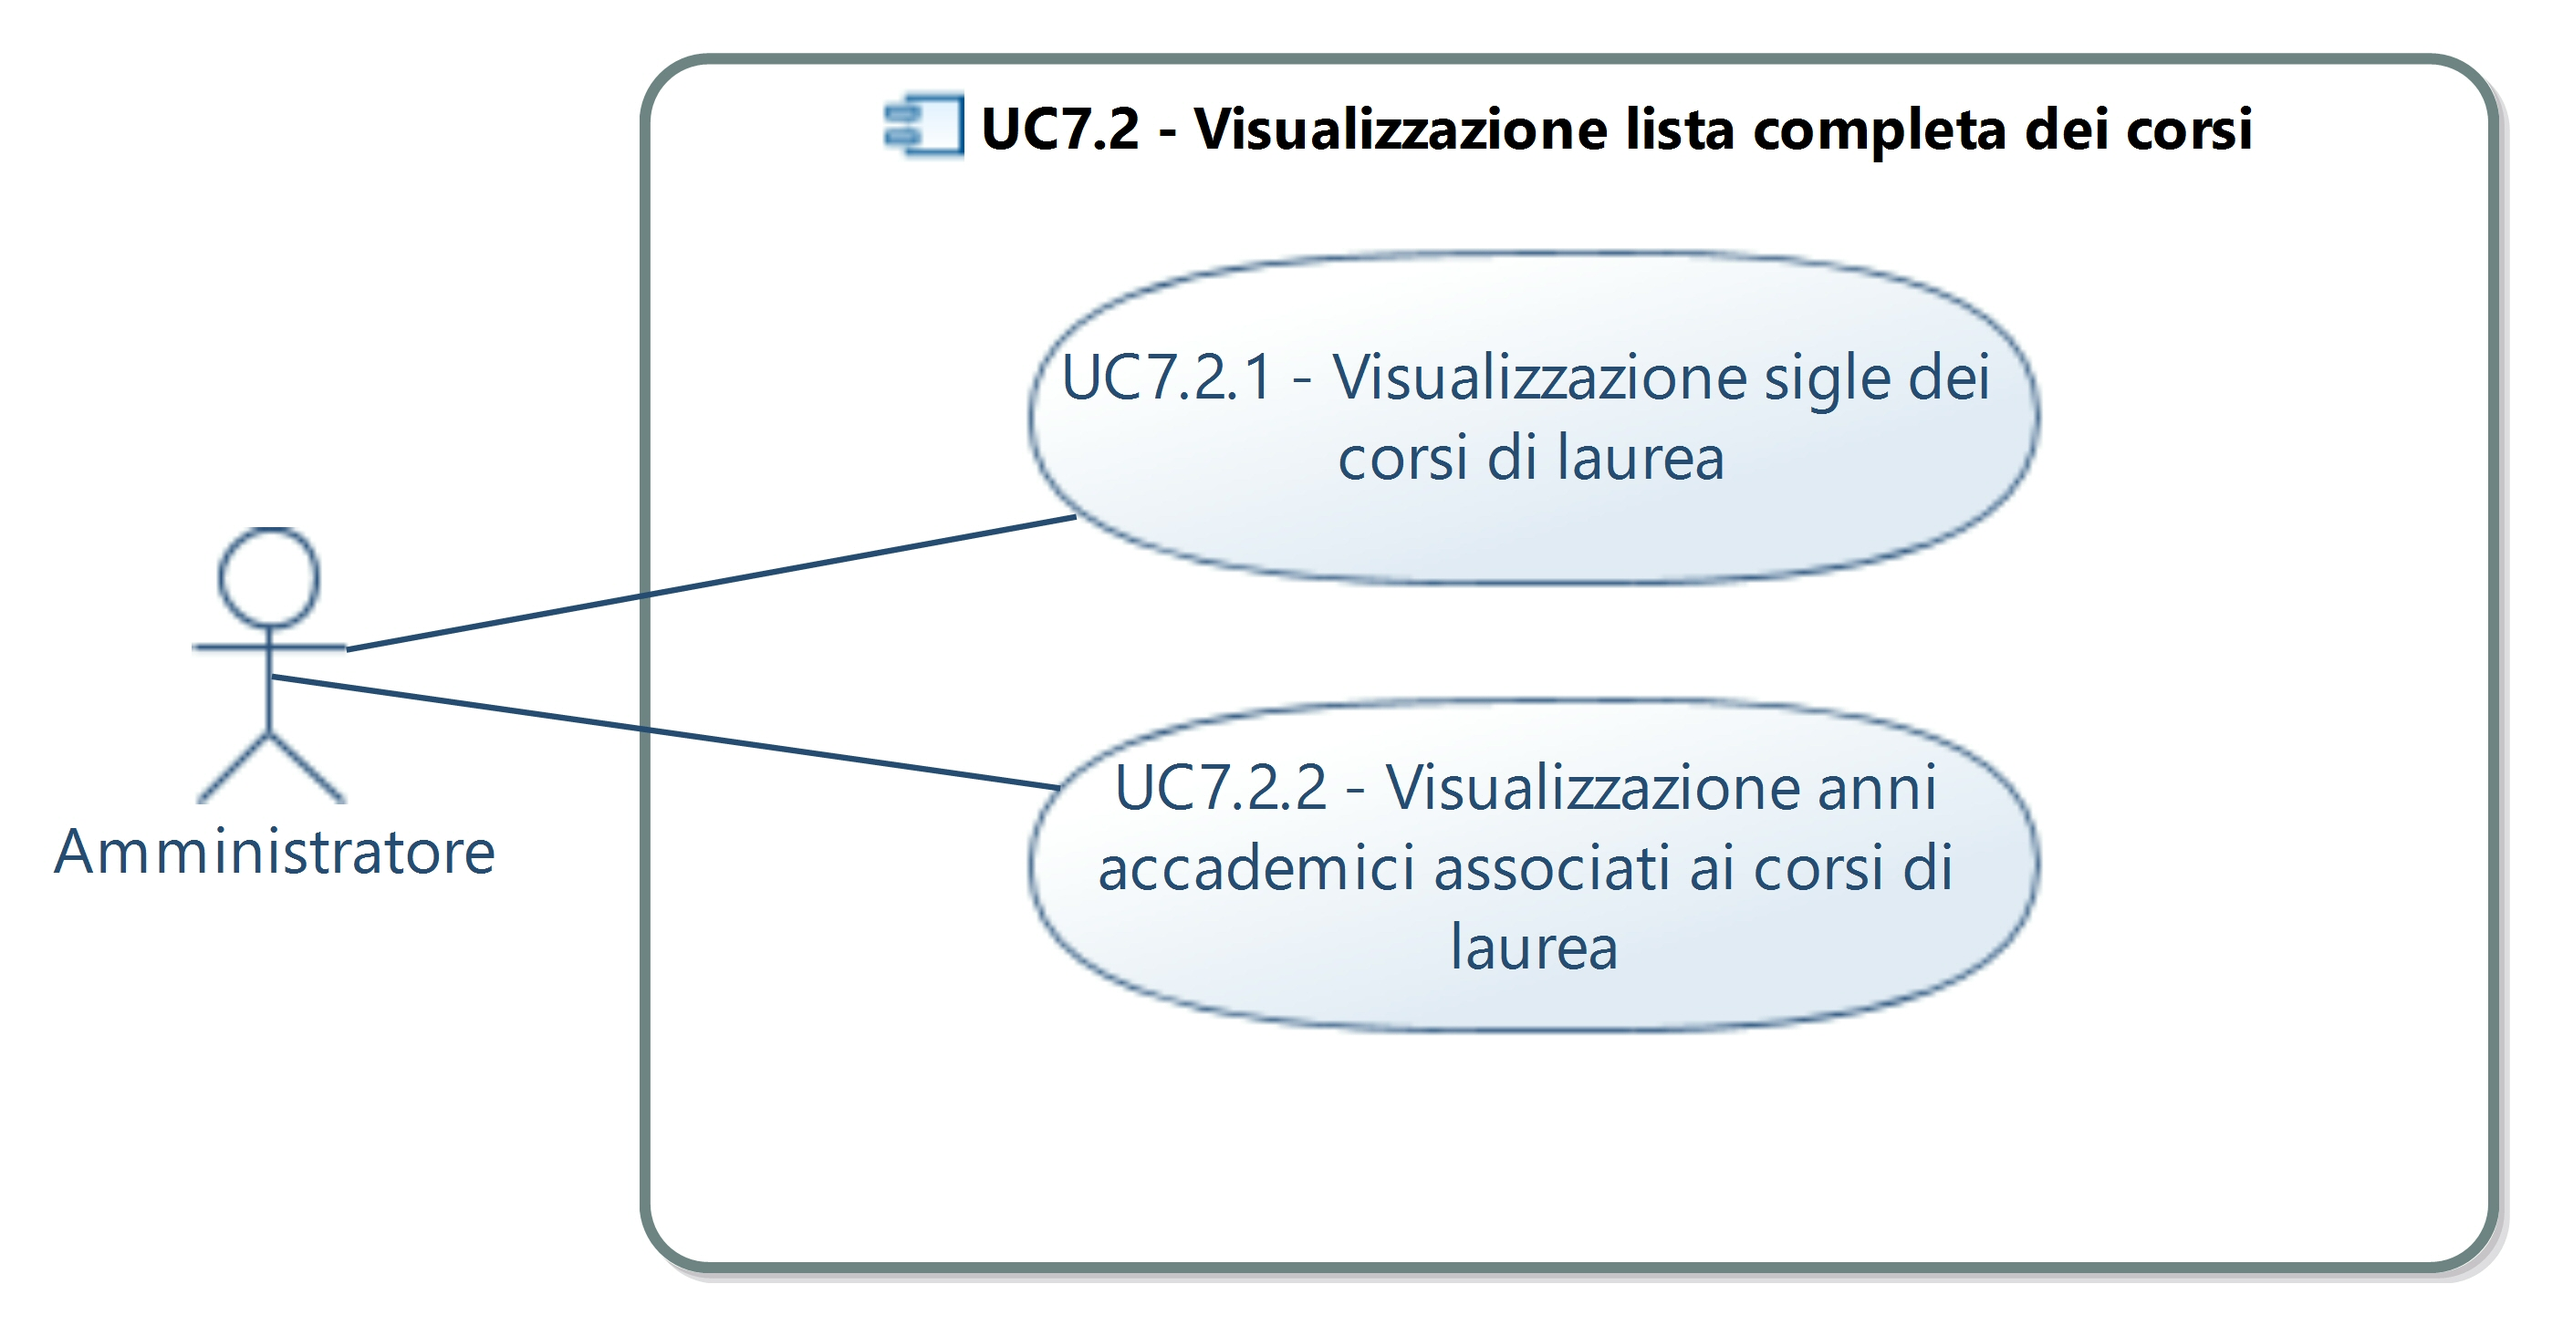
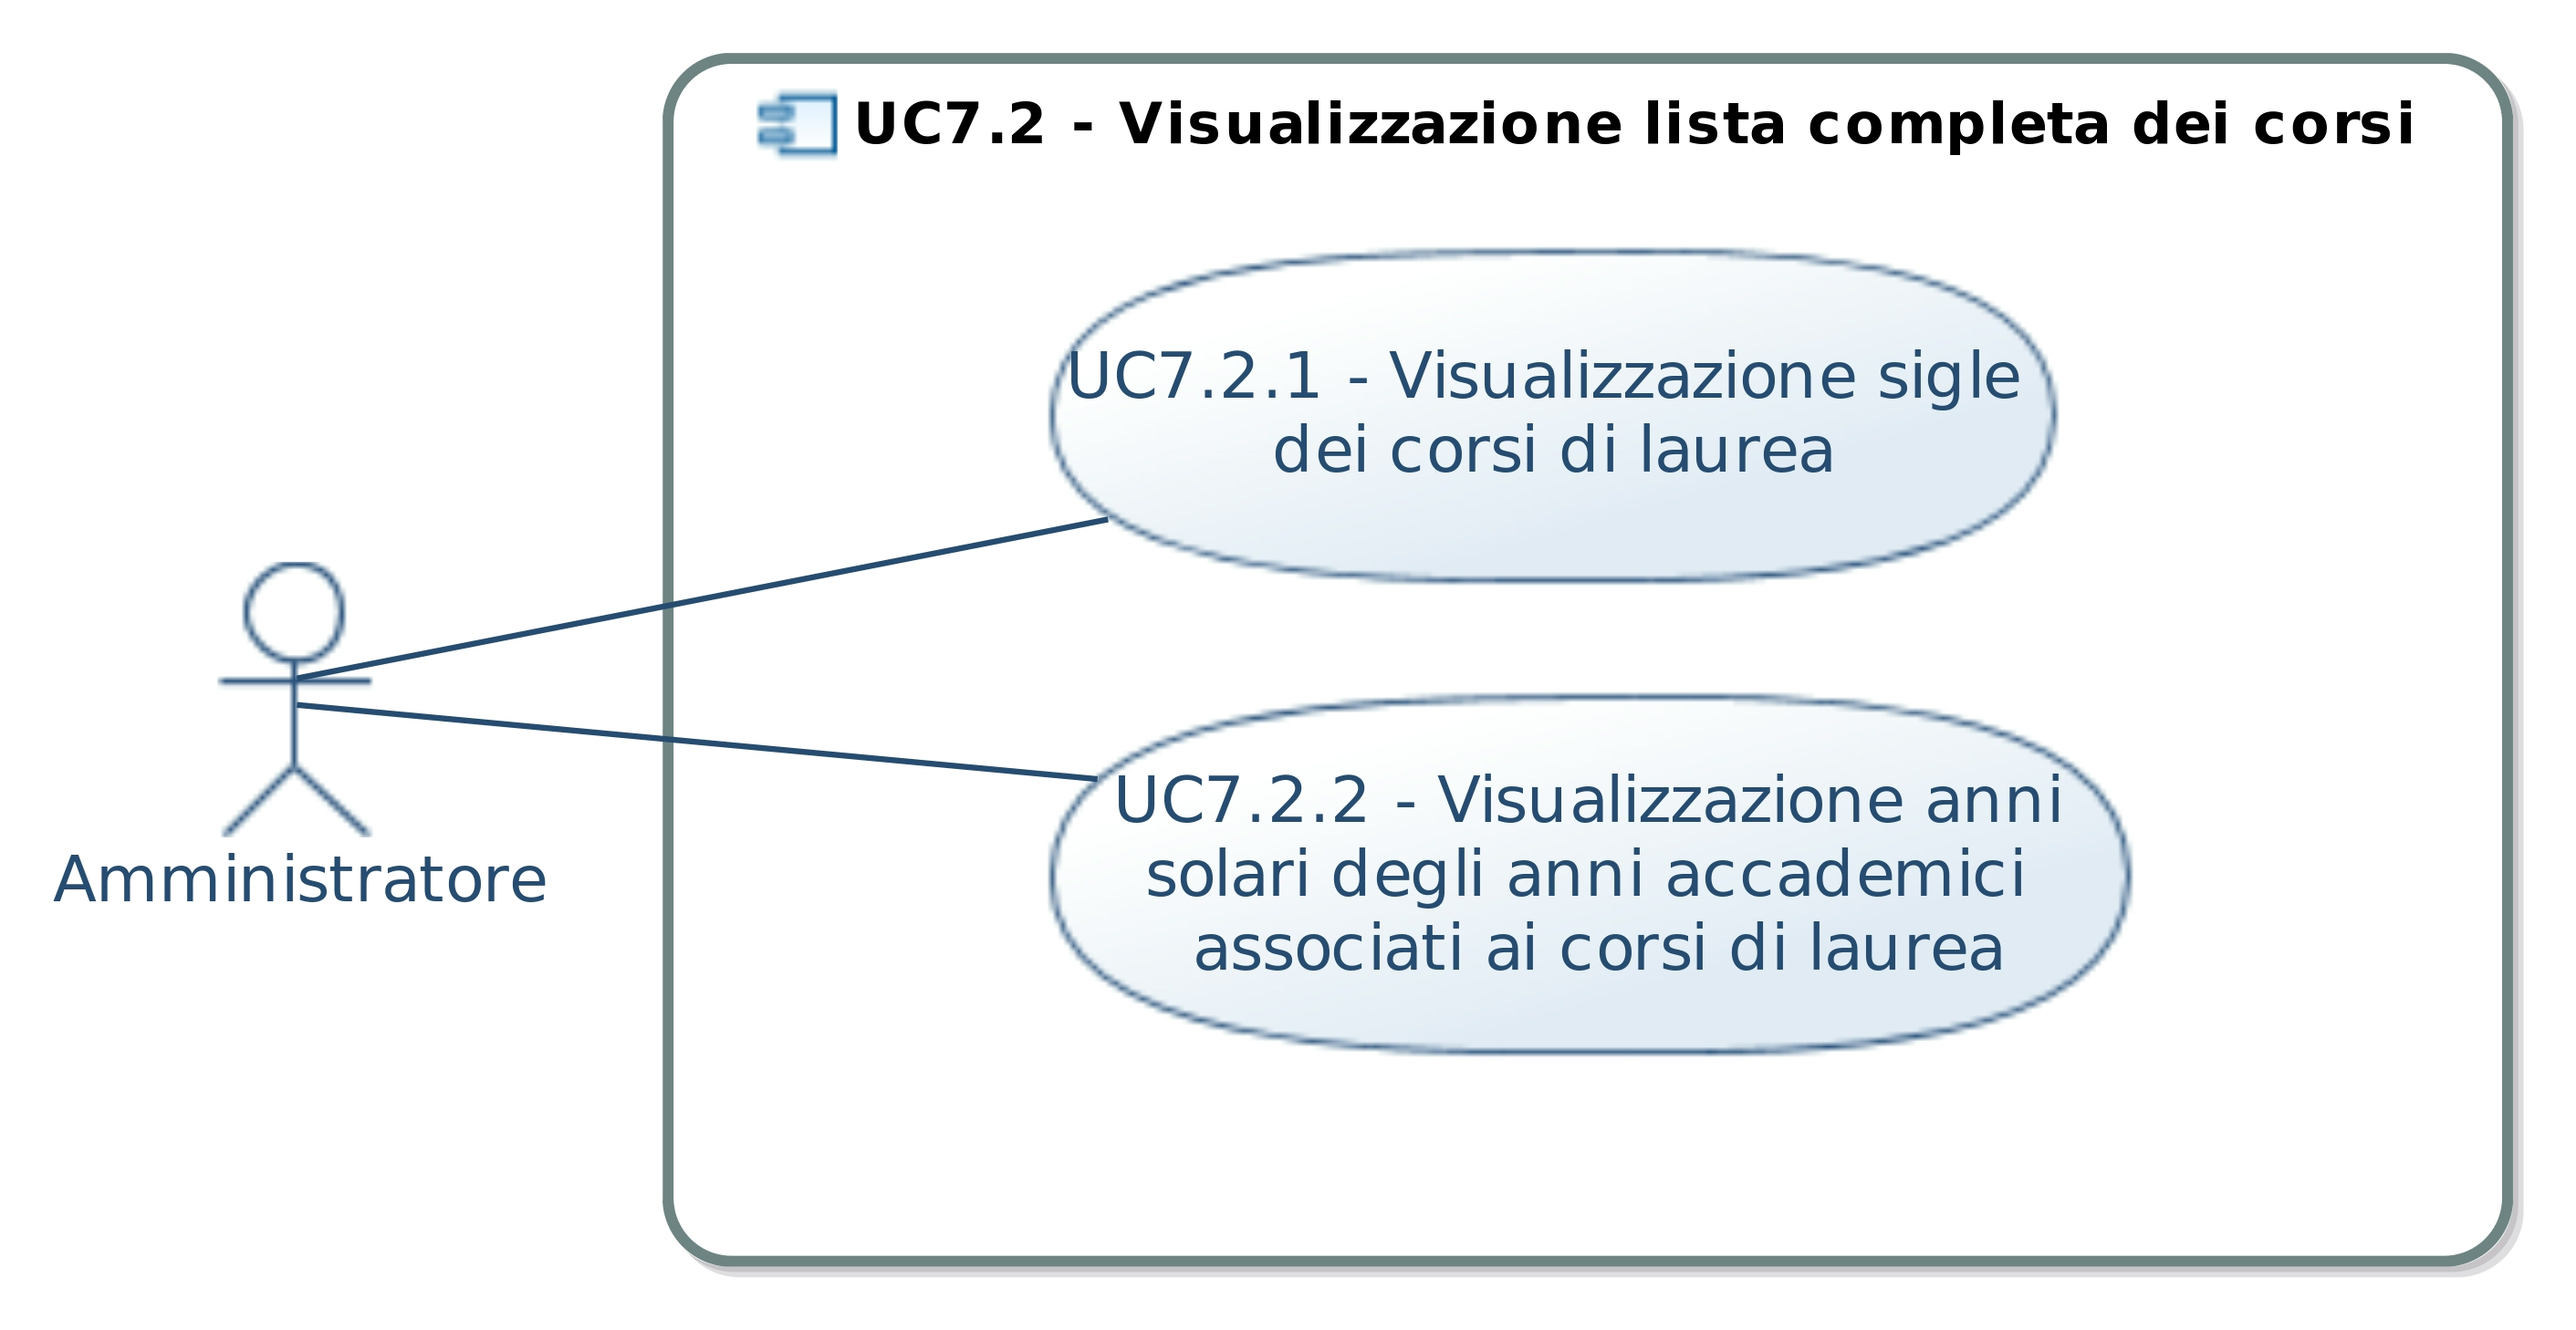
Fix UC7.2

Changed region(s): [[0.0, 0.0309, 0.9292, 0.9568], [0.7124, 0.1852, 0.7433, 0.216]]

diff --git a/Esterni/AnalisiDeiRequisiti/CasiDUso.tex b/Esterni/AnalisiDeiRequisiti/CasiDUso.tex
@@ -644,13 +644,13 @@ Ogni scenario possibile per un attore è disponibile anche ai suoi derivati.
 	\item \textbf{Precondizione:} il sistema riconosce l'utente come amministratore e riceve una richiesta di visualizzazione dei corsi di laurea; 
 	\item \textbf{Postcondizione:} il sistema fornisce all'utente la sigla relativa a ogni corso di laurea.
 \end{itemize}
-\subsection{UC7.2.2 - Visualizzazione anni accademici associati ai corsi di laurea}
+\subsection{UC7.2.2 - Visualizzazione anni solari degli anni accademici associati ai corsi di laurea}
 \begin{itemize}
 	\item \textbf{Attori primari:} amministratore;
-	\item \textbf{Scopo e descrizione:} l'amministratore visualizza la lista degli anni accademici relativi ai corsi di laurea presenti nel sistema;
+	\item \textbf{Scopo e descrizione:} l'amministratore visualizza la lista degli anni solari degli anni accademici relativi ai corsi di laurea presenti nel sistema;
 	\item \textbf{Scenario principale:} l'amministratore richiede una lista di corsi di laurea presenti nel sistema;
 	\item \textbf{Precondizione:} il sistema riconosce l'utente come amministratore e riceve una richiesta di visualizzazione dei corsi di laurea; 
-	\item \textbf{Postcondizione:} il sistema fornisce all'utente l'anno accademico relativo a ogni corso di laurea.
+	\item \textbf{Postcondizione:} il sistema fornisce all'utente l'anno solare dell'anno accademico relativo a ogni corso di laurea.
 \end{itemize}
 \subsection{UC7.3 - Visualizzazione lista corsi di laurea per anno accademico}
 \begin{itemize}
